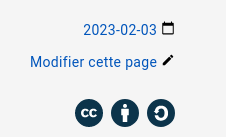
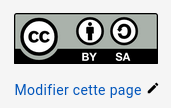
modif pied de page selon suggestion Valérie Jacques

diff --git a/layouts/partials/docs/footer.html b/layouts/partials/docs/footer.html
@@ -1,41 +1,37 @@
 <div class="flex flex-wrap justify-between">
 
-    <div>
+    <div style="padding-top:1em;">
         {{ if and .GitInfo .Site.Params.Logos }}
         <div>
             <a href="https://fabriquerel.org/">
-	            <img style="width:20em;height:100%" alt="FabriqueREL" src="/F-REL_logo-coul-horiz.png" />
-            </a>
-        </div>
-        <div style="position:relative;left:1.25em;">
-            <a href="https://www.cmontmorency.qc.ca/">
-	            <img style="width:20em;height:100%" alt="Collège Montmorency" src="/LogomoHC.png" />
+	            <img style="width:16em;height:100%" alt="FabriqueREL" src="/F-REL_logo-coul-horiz.png" />
             </a>
         </div>
         {{ end }}
     </div>
 
-    <div style="padding-top:2em;">
-        {{ if and .GitInfo .Site.Params.BookRepo }}
-        <div class="flex justify-end">
-            {{- $date := partial "docs/date" (dict "Date" .GitInfo.AuthorDate.Local "Format" .Site.Params.BookDateFormat) -}}
-            {{- $commitPath := default "commit" .Site.Params.BookCommitPath -}}
-            <a href="{{ .Site.Params.BookRepo }}/{{ $commitPath }}/{{ .GitInfo.Hash }}" title='{{ i18n "Last modified by" }} {{ .GitInfo.AuthorName }} | {{ $date }}' target="_blank" rel="noopener">
-                <span>{{ $date }}</span>
-                <img src="{{ "svg/calendar.svg" | relURL }}" class="book-icon" alt="Calendar" />
-            </a>
-        </div>
-        {{ end }}
-
+    <div style="padding-top:2em;margin-bottom:2em;">
+        <a href="https://creativecommons.org/licenses/by-sa/4.0/deed.fr">
+	        <img style="width:9rem;height:auto;" alt="Creative Commons License" src="/by-sa.png" />
+        </a>
         {{ if and .File .Site.Params.BookRepo .Site.Params.BookEditPath }}
-        <div class="flex justify-end" style="padding-top:1em;">
-            <a href="{{ .Site.Params.BookRepo }}/{{ .Site.Params.BookEditPath }}/{{ default "content" .Site.Params.contentDir }}/{{ replace .File.Path "\\" "/" }}" target="_blank" rel="noopener">
+        <div style="padding-top:1em;">
+            <a style="" href="{{ .Site.Params.BookRepo }}/{{ .Site.Params.BookEditPath }}/{{ default "content" .Site.Params.contentDir }}/{{ replace .File.Path "\\" "/" }}" target="_blank" rel="noopener">
                 <span>{{ i18n "Edit this page" }}</span>
                 <img src="{{ "svg/edit.svg" | relURL }}" class="book-icon" alt="Edit" />
             </a>
         </div>
         {{ end }}
-
+    </div>
+    <div style="padding-top:2em;">
+        {{ if and .GitInfo .Site.Params.Logos }}
+        <div style="position:relative;left:1.25em;">
+            <a href="https://www.cmontmorency.qc.ca/">
+	            <img style="width:16em;height:100%" alt="Collège Montmorency" src="/LogomoHC.png" />
+            </a>
+        </div>
+        {{ end }}
+        <!--
         <div class="flex justify-end" style="padding-top:2em;">
             <a href="https://creativecommons.org/licenses/by-sa/4.0/deed.fr" style="font-size:2em;">
 	            <img alt="Creative Commons License" style="border-width:0" src="/cc.svg" />
@@ -49,6 +45,7 @@
                 <img alt="Creative Commons ShareAlike" style="border-width:0" src="/sa.svg" />
             </a>
         </div>
+        -->
     </div>
 </div>
 
